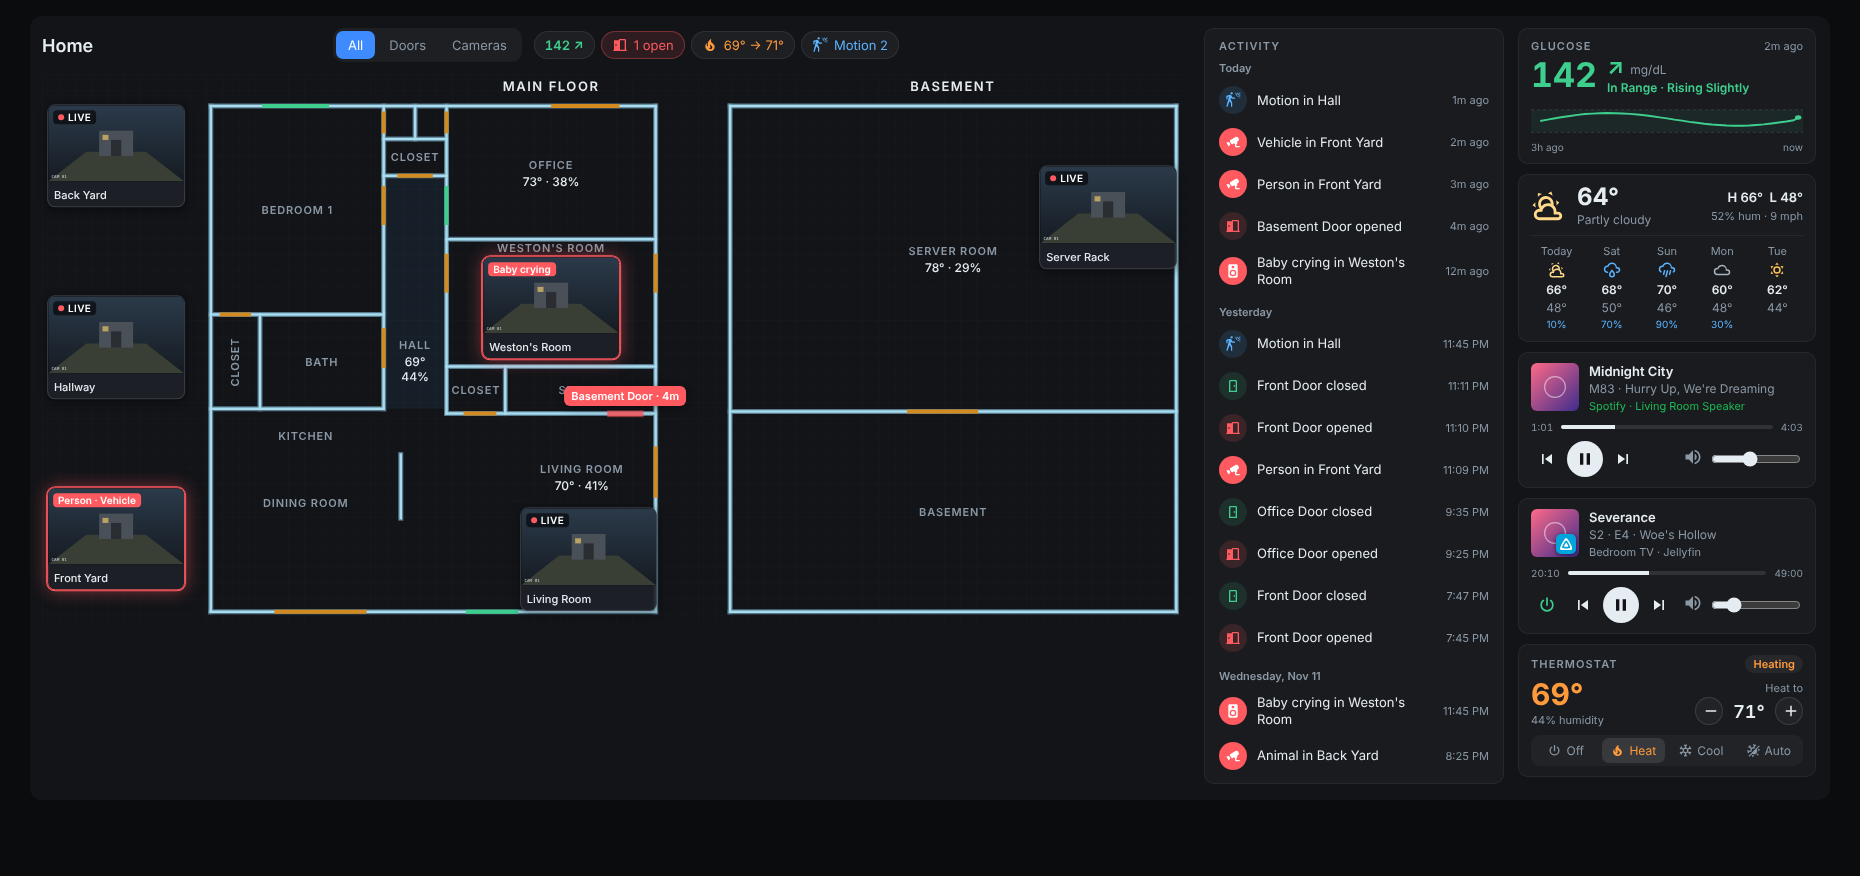
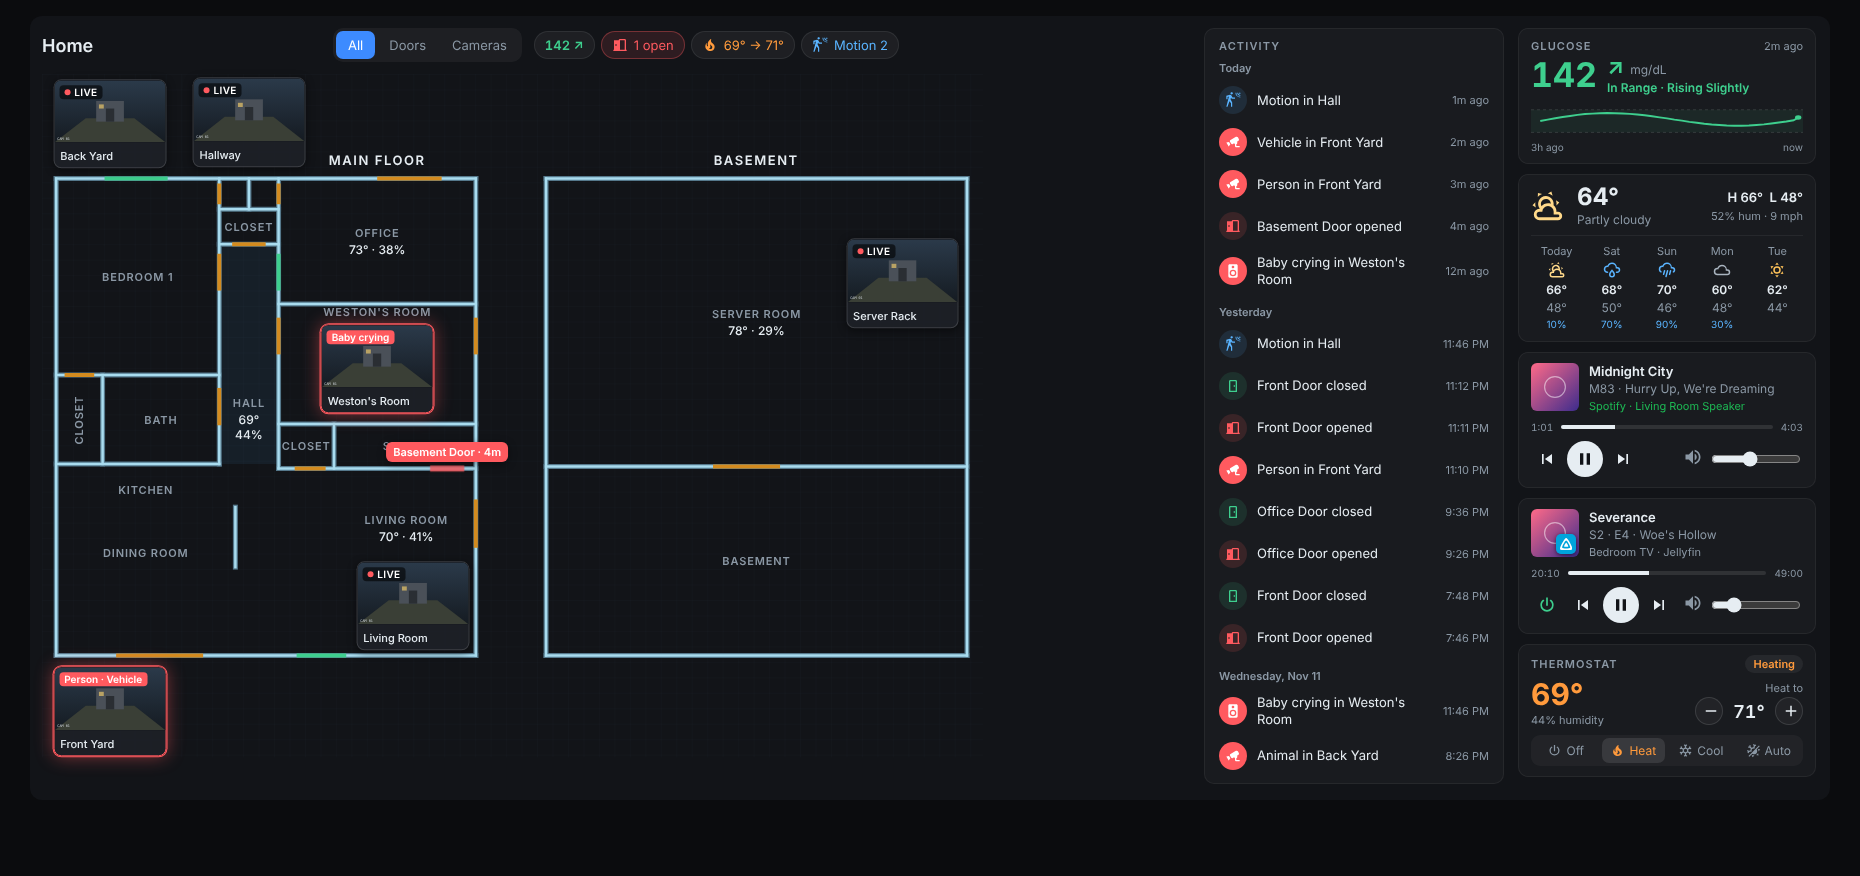
Put yard and hallway cameras back above and below the house

Changed region(s): [[0.0, 0.0616, 0.6548, 0.8938], [0.5613, 0.1849, 0.6548, 0.3082], [0.4054, 0.0925, 0.6237, 0.1233]]

diff --git a/home-view-card.js b/home-view-card.js
@@ -1,4 +1,4 @@
-const VERSION = "0.10.2";
+const VERSION = "0.10.3";
 
 const ICON = {
   door: "M8,3C6.89,3 6,3.89 6,5V21H18V5C18,3.89 17.11,3 16,3H8M8,5H16V19H8V5M13,11V13H15V11H13Z",
@@ -40,8 +40,8 @@ const ICON = {
 
 const DEFAULT_CONFIG = {
   title: "Home",
-  view_box: [-170,0,1680,805],
-  stack: {split_x:780,move:[-760,830],below:700},
+  view_box: [55,-115,1460,1060],
+  stack: {split_x:780,move:[-760,920],below:700},
   labels: [
     {text:"Main Floor",x:575,y:18},
     {text:"Basement",x:1163,y:18},
@@ -90,11 +90,11 @@ const DEFAULT_CONFIG = {
     {name:"Basement Door",line:[1096,494,1200,494]},
   ],
   devices: [
-    {entity:"camera.hallway_high_resolution_channel",name:"Hallway",x:-62,y:400,preview:true},
+    {entity:"camera.hallway_high_resolution_channel",name:"Hallway",x:376,y:-40,preview:true},
     {entity:"camera.westons_room_high_resolution_channel",name:"Weston's Room",detections:["binary_sensor.westons_room_baby_cry_detected","binary_sensor.westons_room_person_detected","binary_sensor.westons_room_animal_detected"],x:575,y:342,preview:true},
-    {entity:"camera.backyard_high_resolution_channel",name:"Back Yard",motion:"binary_sensor.backyard_motion",detections:["binary_sensor.backyard_person_detected","binary_sensor.backyard_vehicle_detected","binary_sensor.backyard_animal_detected"],x:-62,y:120,preview:true},
+    {entity:"camera.backyard_high_resolution_channel",name:"Back Yard",motion:"binary_sensor.backyard_motion",detections:["binary_sensor.backyard_person_detected","binary_sensor.backyard_vehicle_detected","binary_sensor.backyard_animal_detected"],x:160,y:-38,preview:true},
     {entity:"camera.living_room_high_resolution_channel",name:"Living Room",x:630,y:710,preview:true},
-    {entity:"camera.driveway_high_resolution_channel_2",name:"Front Yard",motion:"binary_sensor.driveway_motion_2",detections:["binary_sensor.driveway_person_detected","binary_sensor.driveway_vehicle_detected","binary_sensor.driveway_animal_detected"],x:-62,y:680,preview:true},
+    {entity:"camera.driveway_high_resolution_channel_2",name:"Front Yard",motion:"binary_sensor.driveway_motion_2",detections:["binary_sensor.driveway_person_detected","binary_sensor.driveway_vehicle_detected","binary_sensor.driveway_animal_detected"],x:160,y:874,preview:true},
     {entity:"camera.rack_01_front_mainstream",name:"Server Rack",motion:"binary_sensor.rack_01_rear_motion",x:1390,y:210,preview:true},
   ],
 };
